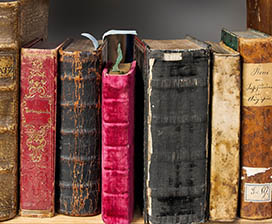
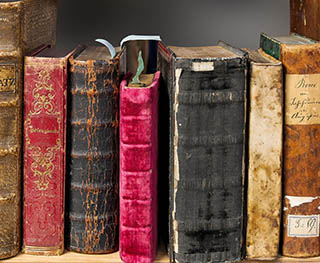
amends from live version

diff --git a/nineteenthcentury.html b/nineteenthcentury.html
@@ -82,13 +82,13 @@
 
             <div class="item">
                 <figure>
-                    <img src="../images/books/trumpet_major.jpg" alt="The Trumpet Major">
+                    <img src="./images/books/trumpet_major.jpg" alt="The Trumpet Major">
                 </figure>
                 <dl class="bookitem">
                     <dt id="c1">Title:</dt>
                     <dd aria-labelledby="c1">The Trumpet Major</dd>
-                    <dt id="c1">Author:</dt>
-                    <dd aria-labelledby="c1">Thomas Hardy</dd>
+                    <dt id="c2">Author:</dt>
+                    <dd aria-labelledby="c2">Thomas Hardy</dd>
                     <dt id="c3">Book Description: </dt>
                     <dd aria-labelledby="c3">London: WH Smith, 1880. First Edition. Three volumes, housed in red velvet
                         slip case. Velum bound. One of only 100 ever published by the publisher. Some scuffing on spine
@@ -96,18 +96,18 @@
                         its age. This copy is signed, which is very unusual for any Hardy text, and increases
                         the value of the text beyond non-signed copies. Expected annual increase in value of 7.1%. </dd>
                     <dt id="c4">Price: </dt>
-                    <dd aria-labelledby="c5">£7000.00</dd>
-                    <dt id="c5">Investment rating </dt>
+                    <dd aria-labelledby="c4">£7000.00</dd>
+                    <dt aria-labelledby="c5">Investment rating </dt>
                     <dd id="c5">***** </dd>
                 </dl>
             </div>
             <div class="item">
                 <figure>
-                    <img src="../images/books/dickens_complete.jpg" alt="The Trumpet Major">
+                    <img src="./images/books/dickens_complete.jpg" alt="The Trumpet Major">
                 </figure>
                 <dl class="bookitem">
                     <dt id="d1">Title:</dt>
-                    <dd aria-labelledby="c1">The Complete Works</dd>
+                    <dd aria-labelledby="d1">The Complete Works</dd>
                     <dt id="d2">Author:</dt>
                     <dd aria-labelledby="d2">Charles Dickens</dd>
                     <dt id="d3">Book Description: </dt>
@@ -126,7 +126,7 @@
 
             <div class="item">
                 <figure>
-                    <img src="../images/books/david_copperfield.jpg" alt="The Trumpet Major">
+                    <img src="./images/books/david_copperfield.jpg" alt="The Trumpet Major">
                 </figure>
                 <dl class="bookitem">
                     <dt id="e1">Title:</dt>
@@ -148,7 +148,7 @@
             </div>
             <div class="item">
                 <figure>
-                    <img src="../images/books/jane_eyre.jpg" alt="The Trumpet Major">
+                    <img src="./images/books/jane_eyre.jpg" alt="The Trumpet Major">
                 </figure>
                 <dl class="bookitem">
                     <dt id="f1">Title:</dt>
@@ -170,36 +170,36 @@
             </div>
             <div class="item">
                 <figure>
-                    <img src="../images/books/mill_on_floss.jpg" alt="The Mill on the Floss">
+                    <img src="./images/books/mill_on_floss.jpg" alt="The Mill on the Floss">
                 </figure>
                 <dl class="bookitem">
-                    <dt id="f1">Title:</dt>
-                    <dd aria-labelledby="f1">Mill on the Floss</dd>
-                    <dt id="f2">Author:</dt>
-                    <dd aria-labelledby="f2">George Eliot</dd>
-                    <dt id="f3">Book Description: </dt>
-                    <dd aria-labelledby="f3">William Bigwort, Edinburgh, 1860. First Edition. Three octavo volumes;
+                    <dt id="h1">Title:</dt>
+                    <dd aria-labelledby="h1">Mill on the Floss</dd>
+                    <dt id="h2">Author:</dt>
+                    <dd aria-labelledby="h2">George Eliot</dd>
+                    <dt id="h3">Book Description: </dt>
+                    <dd aria-labelledby="h3">William Bigwort, Edinburgh, 1860. First Edition. Three octavo volumes;
                         publisher's tan-brown fabric, beautifully embossed in blind and gold lettered on spines;. Cream
                         end pages, with binder's ticket of Eddis & Remartas to the back of volume one. First volume has
                         been expertly restored at corners, otherwise a remarkable, original and well-preserved
                         collection.
                         Early ownership signature ("Reginald Peters") at beginning of each volume. </dd>
-                    <dt id="f4">Price: </dt>
-                    <dd aria-labelledby="f4">£2060.00</dd>
-                    <dt id="f5">Investment rating </dt>
-                    <dd aria-labelledby="f5">**</dd>
+                    <dt id="h4">Price: </dt>
+                    <dd aria-labelledby="h4">£2060.00</dd>
+                    <dt id="h5">Investment rating </dt>
+                    <dd aria-labelledby="h5">**</dd>
                 </dl>
             </div>
 
             <div class="item">
                 <figure>
-                    <img src="../images/books/northhanger_abbey.jpg" alt="Northanger Abbey">
+                    <img src="./images/books/northhanger_abbey.jpg" alt="Northanger Abbey">
                 </figure>
                 <dl class="bookitem">
-                    <dt id="g1">Title:</dt>
-                    <dd aria-labelledby="g1">Northanger Abbey</dd>
-                    <dt id="g2">Author:</dt>
-                    <dd aria-labelledby="fg2">Jane Austen</dd>
+                    <dt aria-labelledby="g1" >Title:</dt>
+                    <dd id="g1">Northanger Abbey</dd>
+                    <dt aria-labelledby="g2">Author:</dt>
+                    <dd id="g2">Jane Austen</dd>
                     <dt id="g3">Book Description: </dt>
                     <dd aria-labelledby="g3">The Literary Society, London, 1989. Hard Cover. Sixth Impression. Hard Cover. Near Fine condition with some minor scuffing to spine. Cover wood engravings by Bob Wallis. Extended introduction by Robert Monks. Slipcase in silver is solid, but display mild scuffing on sides and bottom.  
                         Interior has some pencil underlining to text in chapter 2, 5, 9 and 11. This is a an unsigned copy.  </dd>

diff --git a/books.html b/books.html
@@ -48,7 +48,7 @@
             </div>
         </header>
 
-        <main>
+       
             <nav class="breadcrumbs" role="navigation">
                 <ul>
                     <li><a href="/">Home</a><i class="arrow right"></i></li>
@@ -115,7 +115,7 @@
                     </div>
                 </section>
                 <div class="highlightcontainer">
-                    <aside class="extra" role=”complementary”>
+                    <aside class="extra">
                         <div>
                             <h3>Focus: 19th Century</h3>
                             <p>Lorem ipsum, dolor sit amet consectetur adipisicing elit. Magnam voluptatum tempore,
@@ -130,7 +130,7 @@
                         </div>
                         <figure>
                             <!-- Charles Dickens CC license from https://upload.wikimedia.org/wikipedia/commons/6/64/Charles_Dickens_sketch_1842.jpg -->
-                            <img src="../images/books/dickens.jpg" alt="Portrait of Charles Dickens">
+                            <img src="./images/books/dickens.jpg" alt="Portrait of Charles Dickens">
                             <figcaption>Portrait of Charles Dickens</figcaption>
                         </figure>
                     </aside>

diff --git a/css/styles.css b/css/styles.css
@@ -409,7 +409,7 @@ main {
 }
 
 .intro-col {
-  width: 17em;
+  width: 20em;
   text-align: left;
   margin-top: 1em;
 }
@@ -423,8 +423,8 @@ video {
 }
 
 .parentimage {
-  width: 17em;
-  height: 14em;
+  width: 20em;
+  height: 15em;
   margin: auto;
   overflow: hidden;
 }
@@ -663,22 +663,22 @@ video {
 
 
 .bsvtext.selling h3 {
-  margin-right: 3.59375em;
+  margin-right: 2.15625em
 
 }
 
 
 .bsvtext.selling p {
-  margin-right: 5em;
+  margin-right: 3em;
   padding-bottom: 1.5em;
 }
 
 .bsvtext.valuing p {
-  margin-left: 5em;
+  margin-left: 3em;
 }
 
 .bsvtext.valuing h3 {
-  margin-left: 3.59375em;
+  margin-left: 2.15625em
 }
 
 .bsv.selling img {

diff --git a/css/books.css b/css/books.css
@@ -243,7 +243,7 @@
 
 
 .item {
-    width: 24em;
+    width: 23em;
     border-top: 1px solid #1a1a1a;
     border-bottom: 1px solid #1a1a1a;
     margin-right: 2em;
@@ -256,6 +256,7 @@
     float: left;
     font-size: 1.1em;
     margin-bottom: .5em;
+    line-height: 1.4em;
 }
 
 .item dt { 
